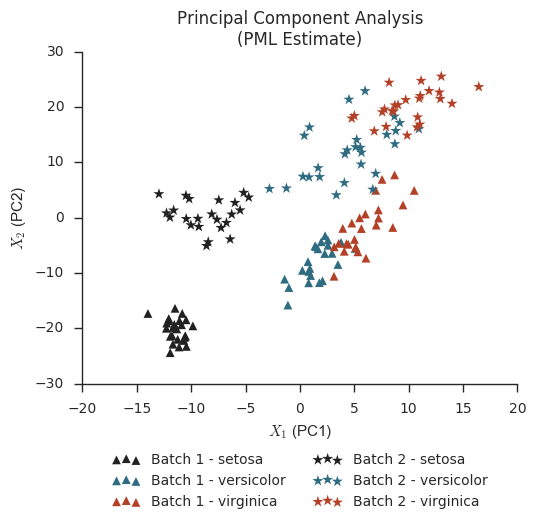
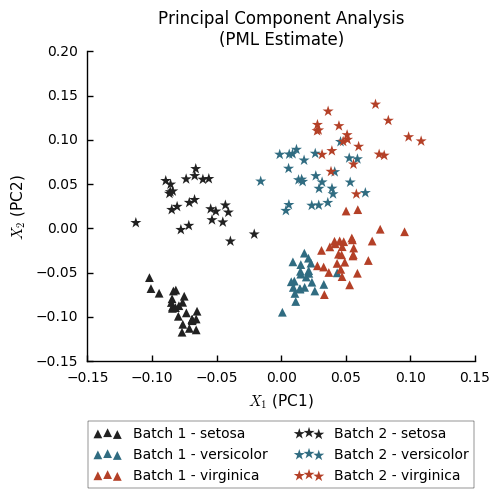
Added independent priors on X in both models

diff --git a/test_pca.py b/test_pca.py
@@ -26,12 +26,9 @@ data = {
     'G': G,
     'Y': Y
 }
-min_noise = np.inf
-for i in range(20):
-    opt = pca.optimizing(data=data)
-    if opt['s2_model'] < min_noise:
-        o = opt.copy()
-        min_noise = opt['s2_model']
+opt = pca.optimizing(data=data)
+o = opt
+min_noise = opt['s2_model']
 
 df = pd.DataFrame(Y, columns=iris.feature_names)
 df['X1'] = o['X'][:, 0]
@@ -80,12 +77,10 @@ data = {
     'G': G,
     'Y': Y_b
 }
-min_noise = np.inf
-for i in range(20):
-    opt = pca.optimizing(data=data)
-    if opt['s2_model'] < min_noise:
-        o = opt.copy()
-        min_noise = opt['s2_model']
+
+opt = pca.optimizing(data=data)
+o = opt
+min_noise = opt['s2_model']
 
 df = pd.DataFrame(Y_b, columns=iris.feature_names)
 df['X1'] = o['X'][:, 0]
@@ -131,12 +126,10 @@ data = {
     'P': 1,
     'Z': batch
 }
-min_noise = np.inf
-for i in range(20):
-    opt = rca.optimizing(data=data)
-    if opt['s2_model'] < min_noise:
-        o = opt.copy()
-        min_noise = opt['s2_model']
+
+opt = rca.optimizing(data=data)
+o = opt
+min_noise = opt['s2_model']
 
 df = pd.DataFrame(Y_b, columns=iris.feature_names)
 df['X1'] = o['X'][:, 0]
